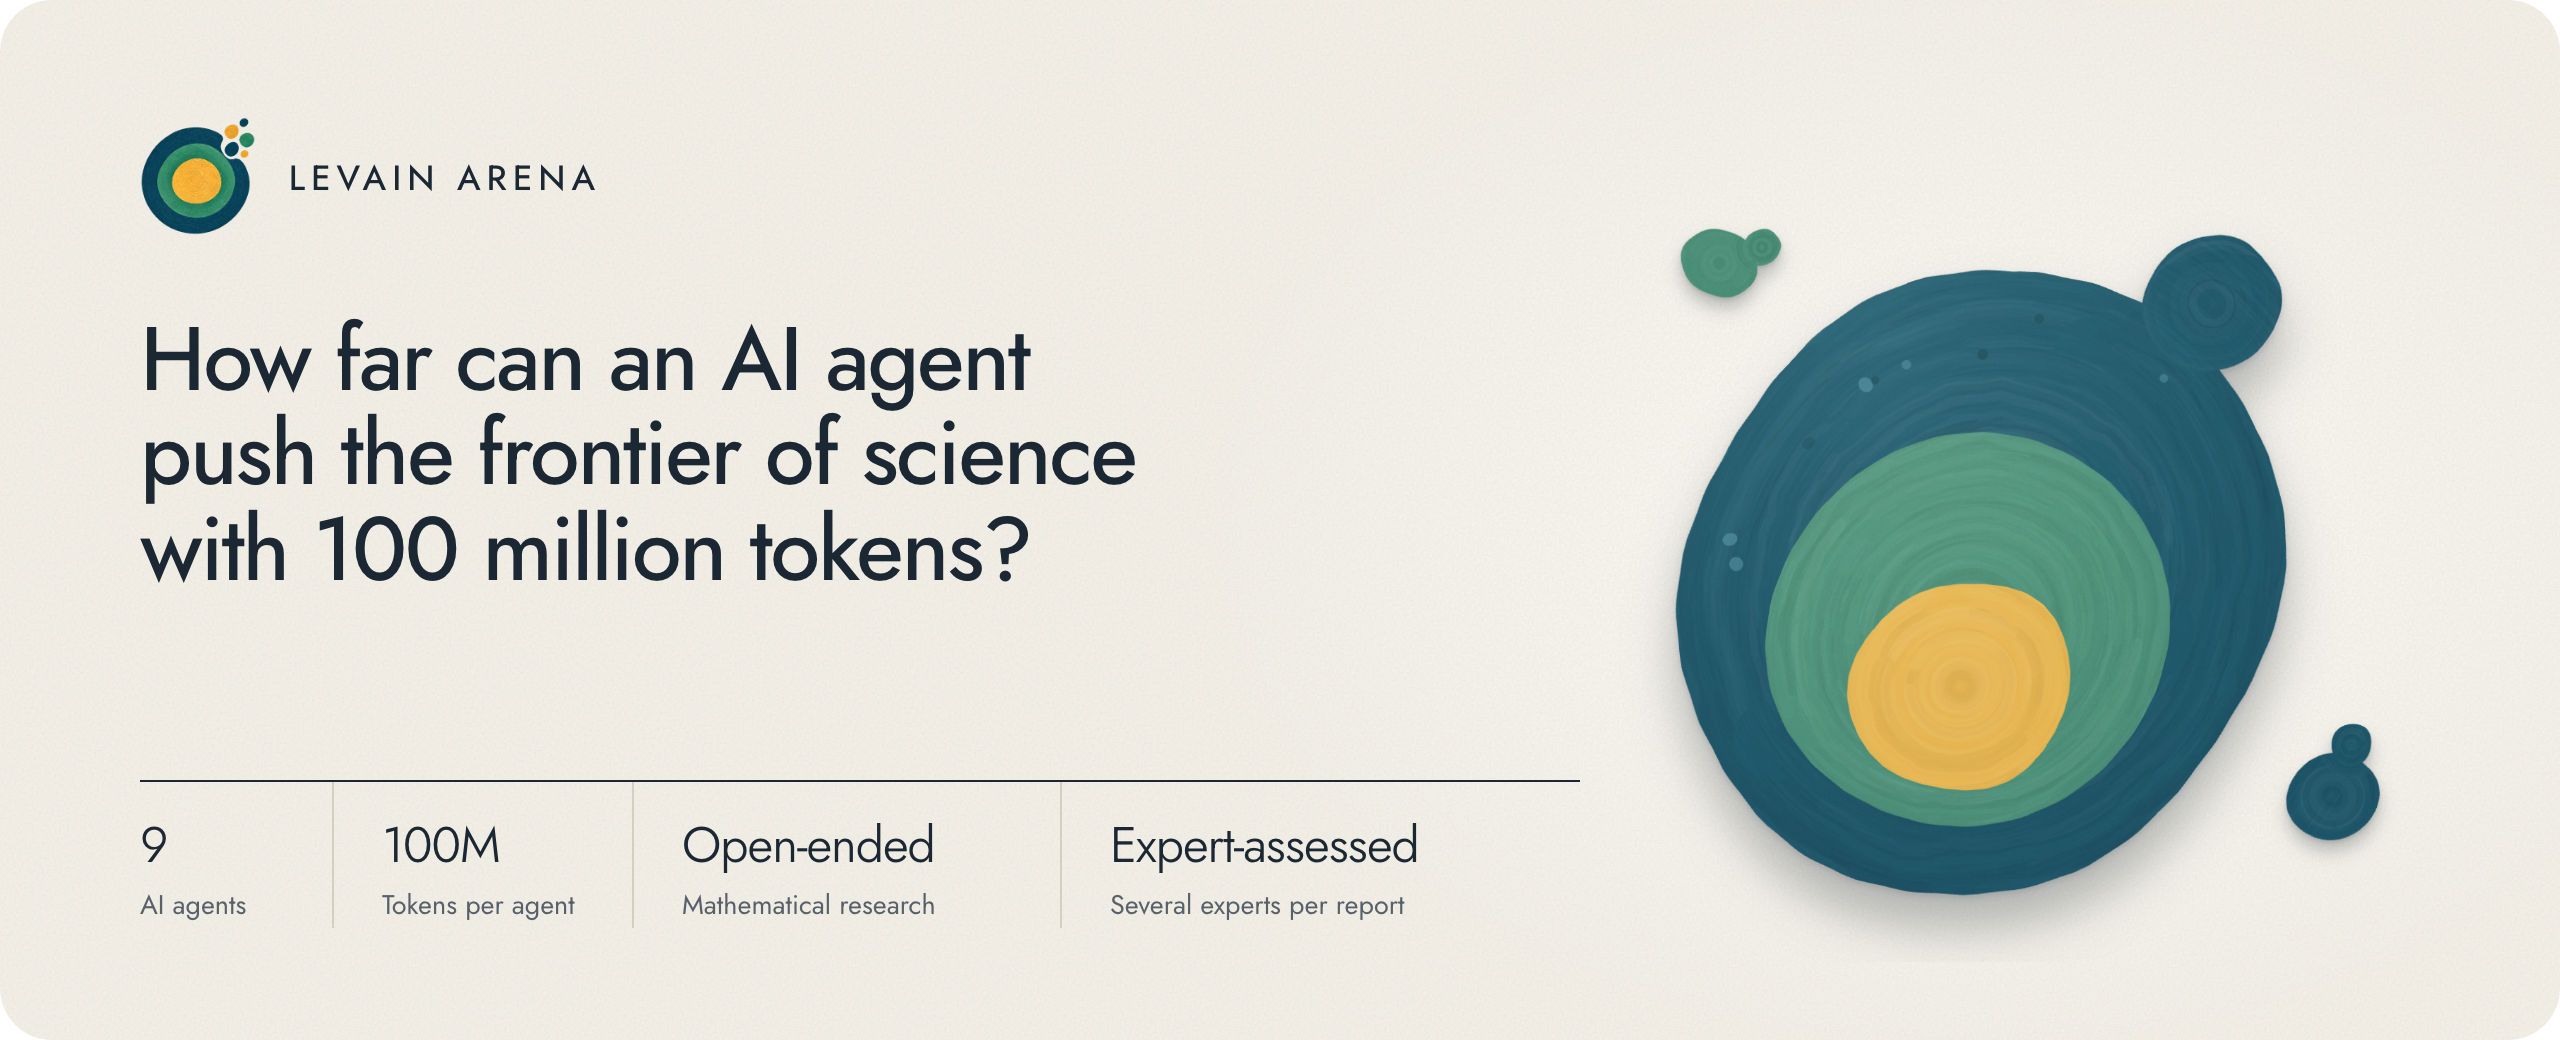
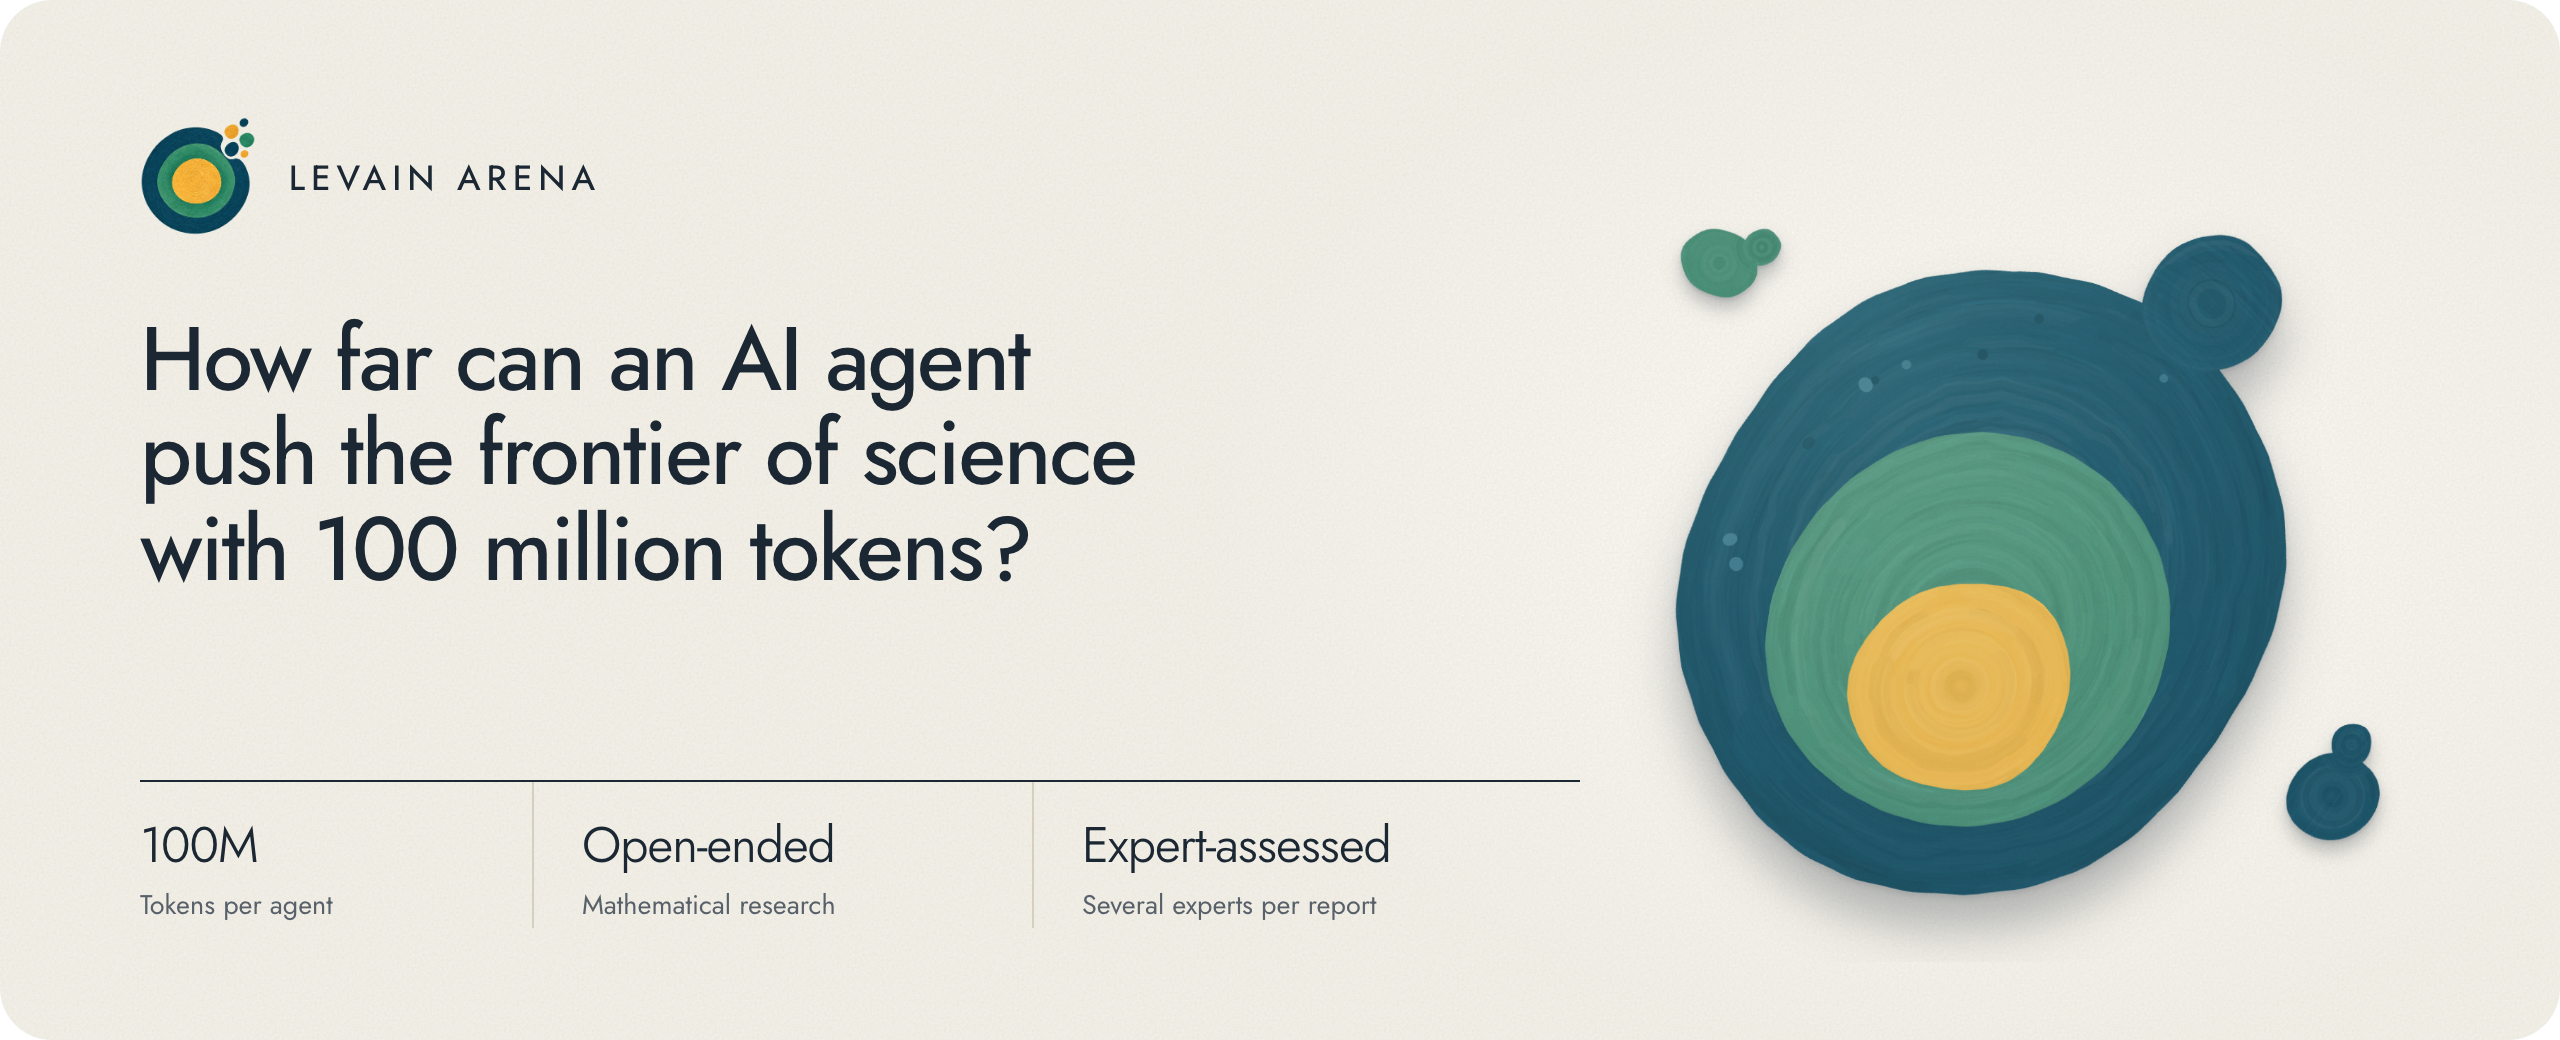
Leave the number of agents out; it will change

diff --git a/profile/README.md b/profile/README.md
@@ -1,7 +1,7 @@
 <p align="center">
   <a href="https://levainarena.org">
     <img src="https://raw.githubusercontent.com/Levain-Arena/.github/main/profile/assets/banner.png" width="100%"
-      alt="Levain Arena. How far can an AI agent push the frontier of science with 100 million tokens? Nine AI agents, 100 million tokens per agent, open-ended mathematical research, each report assessed by several experts.">
+      alt="Levain Arena. How far can an AI agent push the frontier of science with 100 million tokens? 100 million tokens per agent, open-ended mathematical research, each report assessed by several experts.">
   </a>
 </p>
 
@@ -13,8 +13,8 @@
   &nbsp;·&nbsp; <a href="https://levainarena.org/#join">Join as a co-author</a>
 </p>
 
-Levain Arena gives nine AI agents the freedom to conduct open-ended mathematical research, each under the same fixed
-budget of 100 million tokens, all running in the **Levain Harness**: an environment that drives open-ended exploration,
+Levain Arena gives AI agents the freedom to conduct open-ended mathematical research, each under the same fixed budget
+of 100 million tokens, all running in the **Levain Harness**: an environment that drives open-ended exploration,
 and the infrastructure that lets an agent keep researching for days on end. We study what they discover, how they
 reason, where they fail, and how AI-generated research can be rigorously validated by human experts.
 
